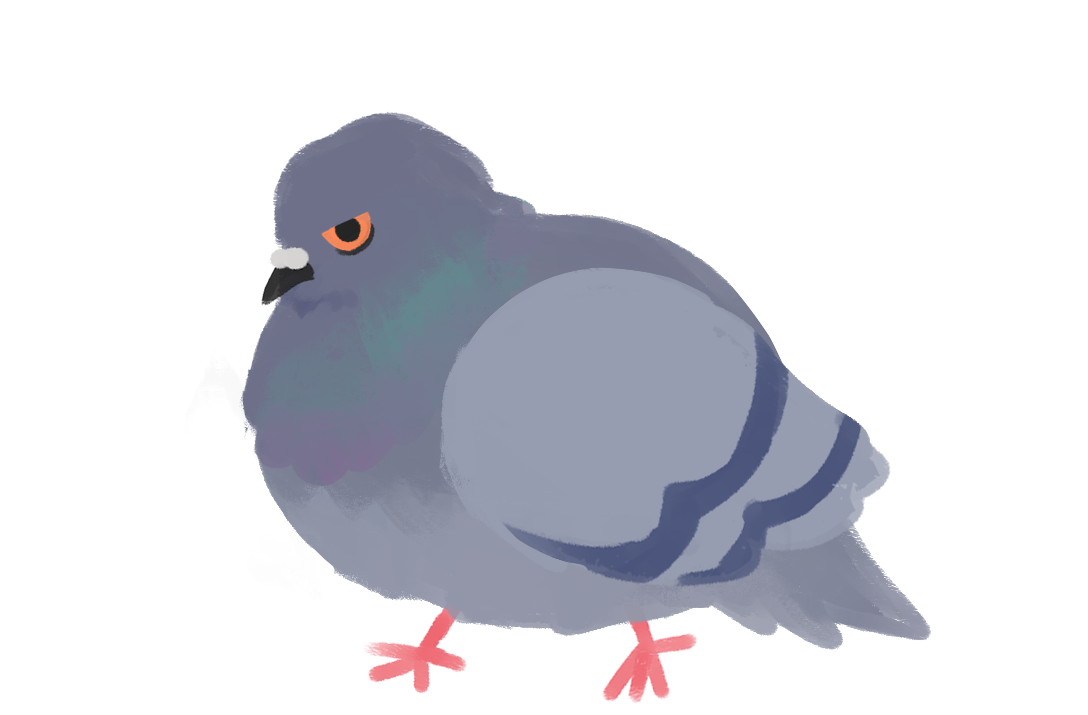
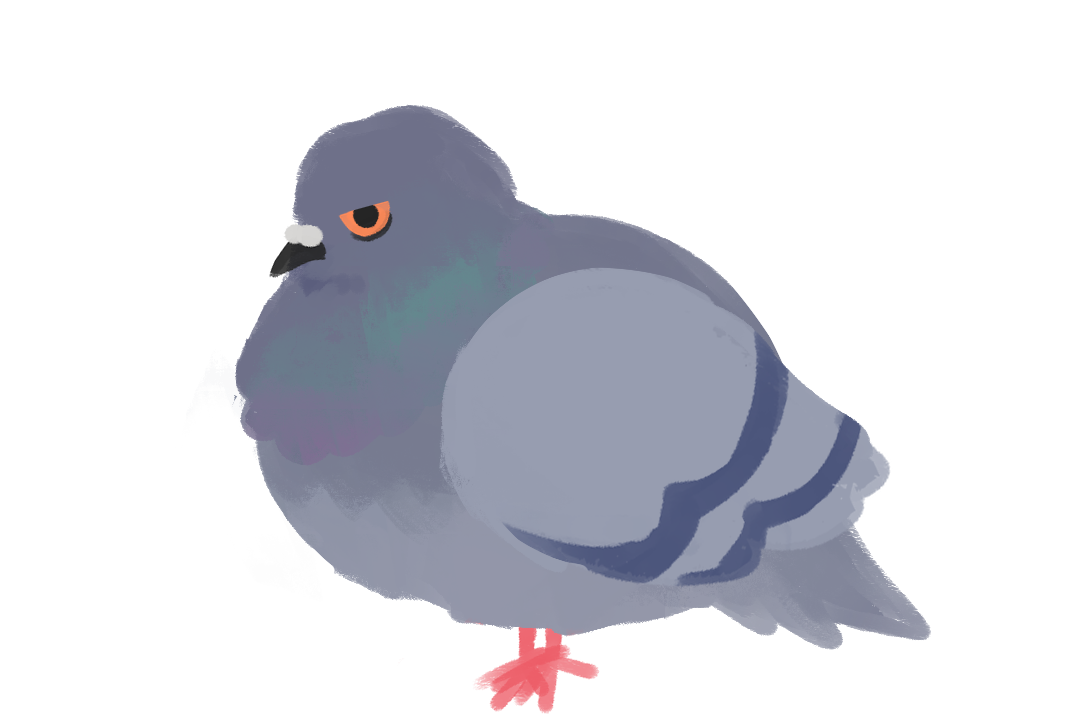
loop.js
- 뚠띠 걷는 모습 추가
- loop.js: 엔딩 영상 때 브금 멈추게 하는거 추가 및 영상 길이대로 초수 수정
- main.js: 버튼 누르면 바로 브금 재생 안되게 삭제
- 비디오 에셋 폴더에 인트로, 엔딩 영상 추가

diff --git a/js/loop.js b/js/loop.js
@@ -28,8 +28,13 @@ function switchScene(name) {
     STATE.framesInCurrentScene = 0; // 새 씬에 막 들어왔으니 0 부터 센다
 
     // ── 영상 씬이면 재생 시작 (fallbackMs = 영상이 안 끝날 때 강제 전환 시간) ──
-    if (name === "introVideo") playSceneVideo($("intro-video"), "play", 1200);
-    if (name === "endingVideo") playSceneVideo($("ending-video"), "end", 1200);
+    if (name === "introVideo"){
+        playSceneVideo($("intro-video"), "play", 20000);
+    } 
+    if (name === "endingVideo"){
+        pauseBgm();
+        playSceneVideo($("ending-video"), "end", 35000);
+    } 
     if (name === "play") {
         startBgm();
     }

diff --git a/js/main.js b/js/main.js
@@ -14,7 +14,6 @@ function onTitleStart() {
     clearHumanLayer(); // (이전 게임의 발 DOM 정리)
     seedCigarettes(DATA.CONFIG.SPAWN.INITIAL_COUNT); // 맵에 시작 시 생성되어있는 담배 갯수
     switchScene("introVideo");
-    startBgm(); // 사용자 클릭 시점 → 자동재생 정책 통과
 }
 
 /**